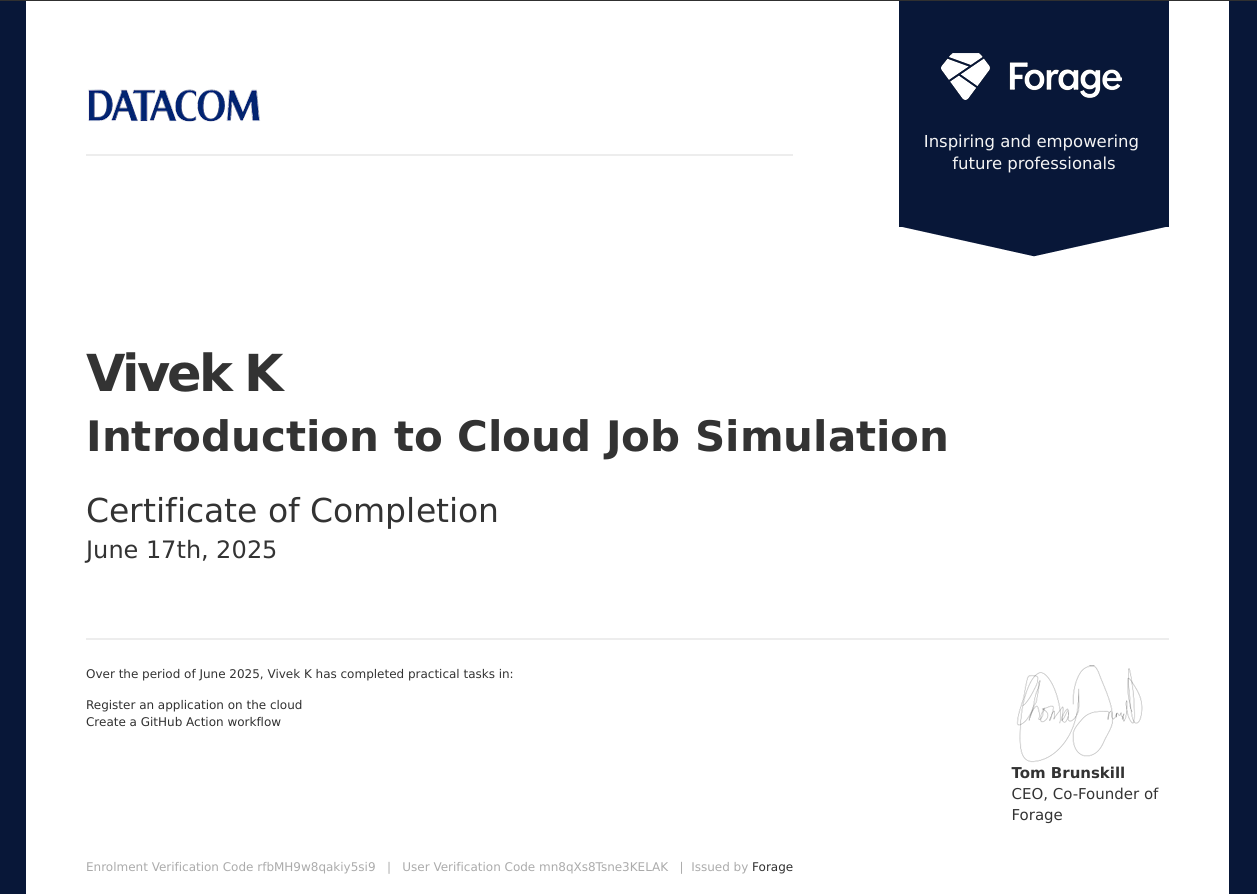
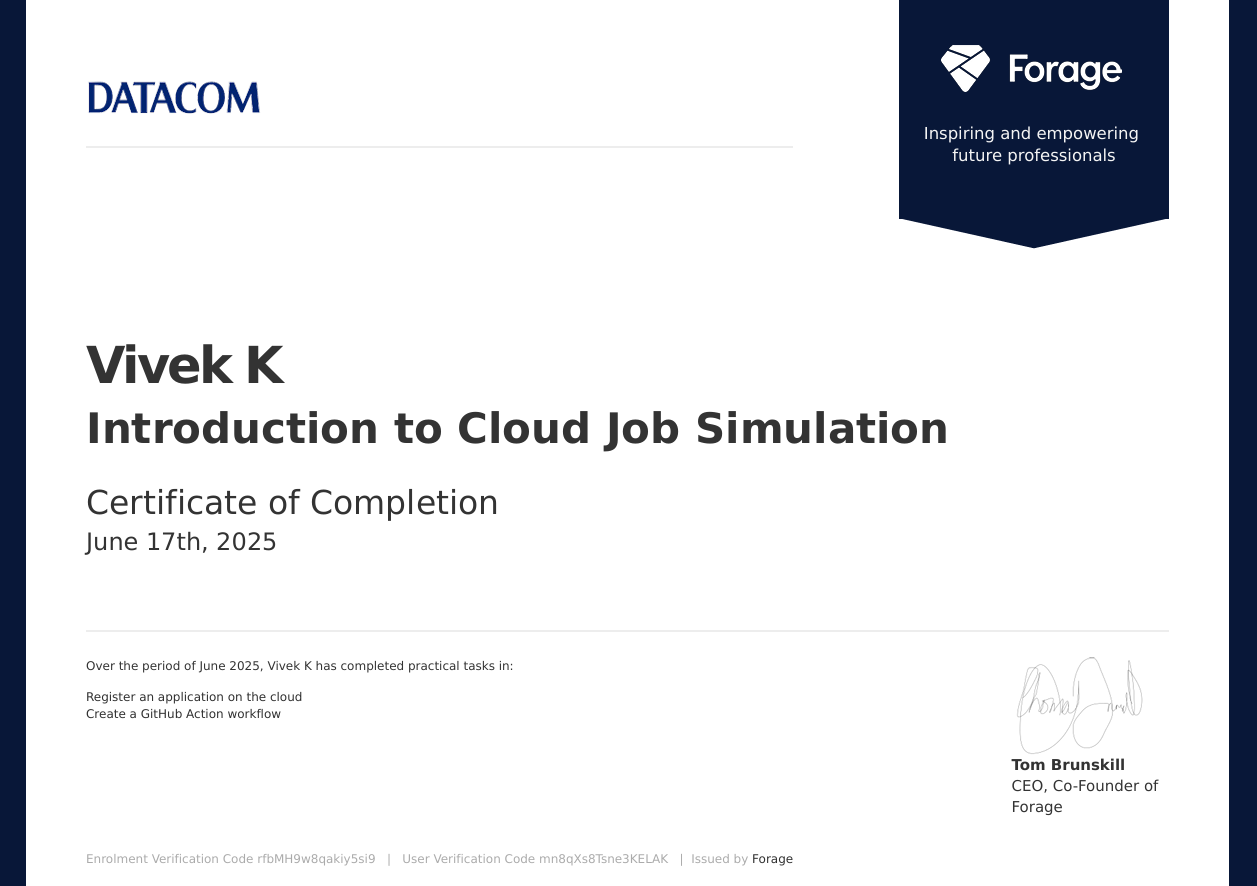
new

diff --git a/index.html b/index.html
@@ -338,10 +338,10 @@
                style="display: inline-block;">
              <h1 style="display: inline-block;">Web Development</h1>
              </div>
-            <a href="assets/WEB_CERTIFICATE.pdf" target="_blank">
+            <a href="assets/web-certificate.png" target="_blank">
          <img src="assets/web-certificate.png" id="certificate-image"/>
          </a>
-         <p id="certificate-text"> Web Development course by Talim Platform</p>
+         <p id="certificate-text"> Web Development course by Talim</p>
            <p id="tap">(tap on image to view)</p>
             </div>
 
@@ -356,7 +356,7 @@
             <a href="assets/red-team.jpg" target="_blank">
          <img src="assets/red-team.jpg" id="certificate-image"/>
          </a>
-         <p id="certificate-text"> Pen Testing Internsip by redteam academy</p>
+         <p id="certificate-text"> Pen Testing Internsip by Redteam </p>
            <p id="tap">(tap on image to view)</p>
             </div>
 
@@ -368,10 +368,10 @@
                    style="display: inline-block;">
                  <h1 style="display: inline-block;">Cyber Security</h1>
                  </div>
-                <a href="assets/tata-certificate.pdf" target="_blank">
+                <a href="assets/tata-certificate.png" target="_blank">
              <img src="assets/tata-certificate.png" id="certificate-image"/>
              </a>
-             <p id="certificate-text"> Cyber security analyst by TATA GROUP & FORAGE</p>
+             <p id="certificate-text"> Cyber security analyst by TATA </p>
                <p id="tap">(tap on image to view)</p>
                 </div>
 
@@ -385,7 +385,7 @@
                 <a href="assets/cyra.jpg" target="_blank">
              <img src="assets/cyra.jpg" id="certificate-image"/>
              </a>
-             <p id="certificate-text"> Flutter ecommerce app development by cyra Learnings</p>
+             <p id="certificate-text"> Flutter development by cyra Learnings</p>
                <p id="tap">(tap on image to view)</p>
                 </div>
 
@@ -408,15 +408,53 @@
                   <div>
                     <img src="assets/experience.png" class="icon" 
                    style="display: inline-block;">
+                 <h1 style="display: inline-block;">Cloud </h1>
+                 </div>
+                 <a href="assets/datacom-cloud.png" target="_blank">
+             <img src="assets/datacom-cloud.png" id="certificate-image"/>
+             </a>
+             <p id="certificate-text">Cloud Computing by DATACOM </p>
+             <p id="tap">(tap on image to view)</p>
+                </div>
+
+                <div class="certificate-container">
+                  <div>
+                    <img src="assets/experience.png" class="icon" 
+                   style="display: inline-block;">
+                 <h1 style="display: inline-block;">Data analyst</h1>
+                 </div>
+                 <a href="assets/deloitte-data-analytics.png" target="_blank">
+             <img src="assets/deloitte-data-analytics.png" id="certificate-image"/>
+             </a>
+             <p id="certificate-text">Data analyst by Deloitte</p>
+             <p id="tap">(tap on image to view)</p>
+                </div>
+
+                <div class="certificate-container">
+                  <div>
+                    <img src="assets/experience.png" class="icon" 
+                   style="display: inline-block;">
                  <h1 style="display: inline-block;">UI-UX Designing</h1>
                  </div>
                 <a href="assets/softronics-ui.png" target="_blank">
              <img src="assets/softronics-ui.png" id="certificate-image"/>
              </a>
-             <p id="certificate-text"> UI-UX designingg on figma</p>
+             <p id="certificate-text"> UI-UX designing BY Softroniics</p>
                <p id="tap">(tap on image to view)</p>
                 </div>
 
+                <div class="certificate-container">
+                  <div>
+                    <img src="assets/experience.png" class="icon" 
+                   style="display: inline-block;">
+                 <h1 style="display: inline-block;">UX Designing</h1>
+                 </div>
+                 <a href="assets/lloyds-uiux.png" target="_blank">
+             <img src="assets/lloyds-uiux.png" id="certificate-image"/>
+             </a>
+             <p id="certificate-text">UX Designing by LLOyds</p>
+             <p id="tap">(tap on image to view)</p>
+                </div>
 
                 <div class="certificate-container">
                   <div>
@@ -424,12 +462,26 @@
                    style="display: inline-block;">
                  <h1 style="display: inline-block;">Cyber Security</h1>
                  </div>
-                 <a href="assets/certificate-hp1.pdf" target="_blank">
+                 <a href="assets/certificate-hp1.png" target="_blank">
              <img src="assets/certificate-hp1.png" id="certificate-image"/>
              </a>
              <p id="certificate-text"> Cyber Security class intro by HP</p>
              <p id="tap">(tap on image to view)</p>
                 </div>
+
+                <div class="certificate-container">
+                  <div>
+                    <img src="assets/experience.png" class="icon" 
+                   style="display: inline-block;">
+                 <h1 style="display: inline-block;">Cyber Security</h1>
+                 </div>
+                 <a href="assets/datacom-cyber.png" target="_blank">
+             <img src="assets/datacom-cyber.png" id="certificate-image"/>
+             </a>
+             <p id="certificate-text">Cyber security by datacom</p>
+             <p id="tap">(tap on image to view)</p>
+                </div>
+
 
                 <div class="certificate-container">
                   <div>
@@ -444,6 +496,31 @@
              <p id="tap">(tap on image to view)</p>
                 </div>
 
+                <div class="certificate-container">
+                  <div>
+                    <img src="assets/experience.png" class="icon" 
+                   style="display: inline-block;">
+                 <h1 style="display: inline-block;">Software Engineering</h1>
+                 </div>
+                 <a href="assets/accenture-sw-eng.png" target="_blank">
+             <img src="assets/accenture-sw-eng.png" id="certificate-image"/>
+             </a>
+             <p id="certificate-text">Software Engineering by accenture</p>
+             <p id="tap">(tap on image to view)</p>
+                </div>
+
+                <div class="certificate-container">
+                  <div>
+                    <img src="assets/experience.png" class="icon" 
+                   style="display: inline-block;">
+                 <h1 style="display: inline-block;">software Dev</h1>
+                 </div>
+                 <a href="assets/datacom-sw-dev.png" target="_blank">
+             <img src="assets/datacom-sw-dev.png" id="certificate-image"/>
+             </a>
+             <p id="certificate-text">Software Development by Datacom</p>
+             <p id="tap">(tap on image to view)</p>
+                </div>
 
                 <div class="certificate-container">
                   <div>
@@ -477,7 +554,7 @@
                    style="display: inline-block;">
                  <h1 style="display: inline-block;">Data Analyst</h1>
                  </div>
-                 <a href="assets/certificate-hp2.pdf" target="_blank">
+                 <a href="assets/certificate-hp2.png" target="_blank">
              <img src="assets/certificate-hp2.png" id="certificate-image"/>
              </a>
              <p id="certificate-text">Data Analytics course by HP</p>
